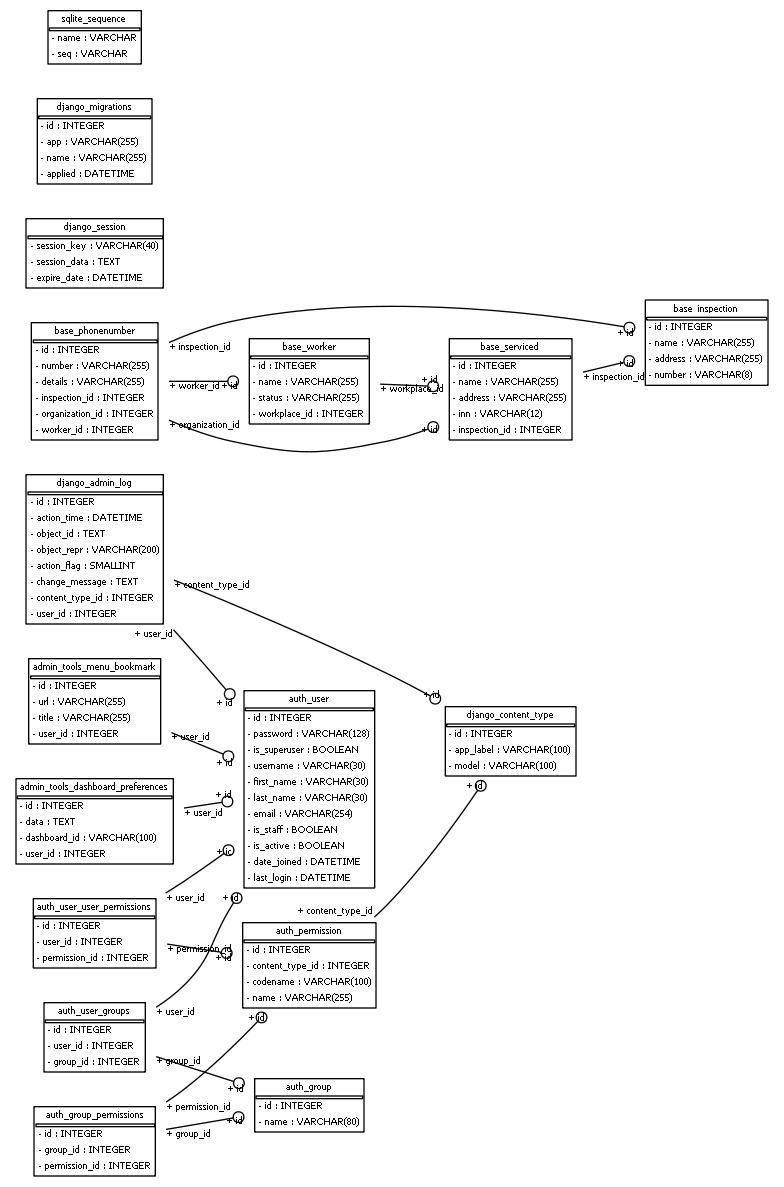
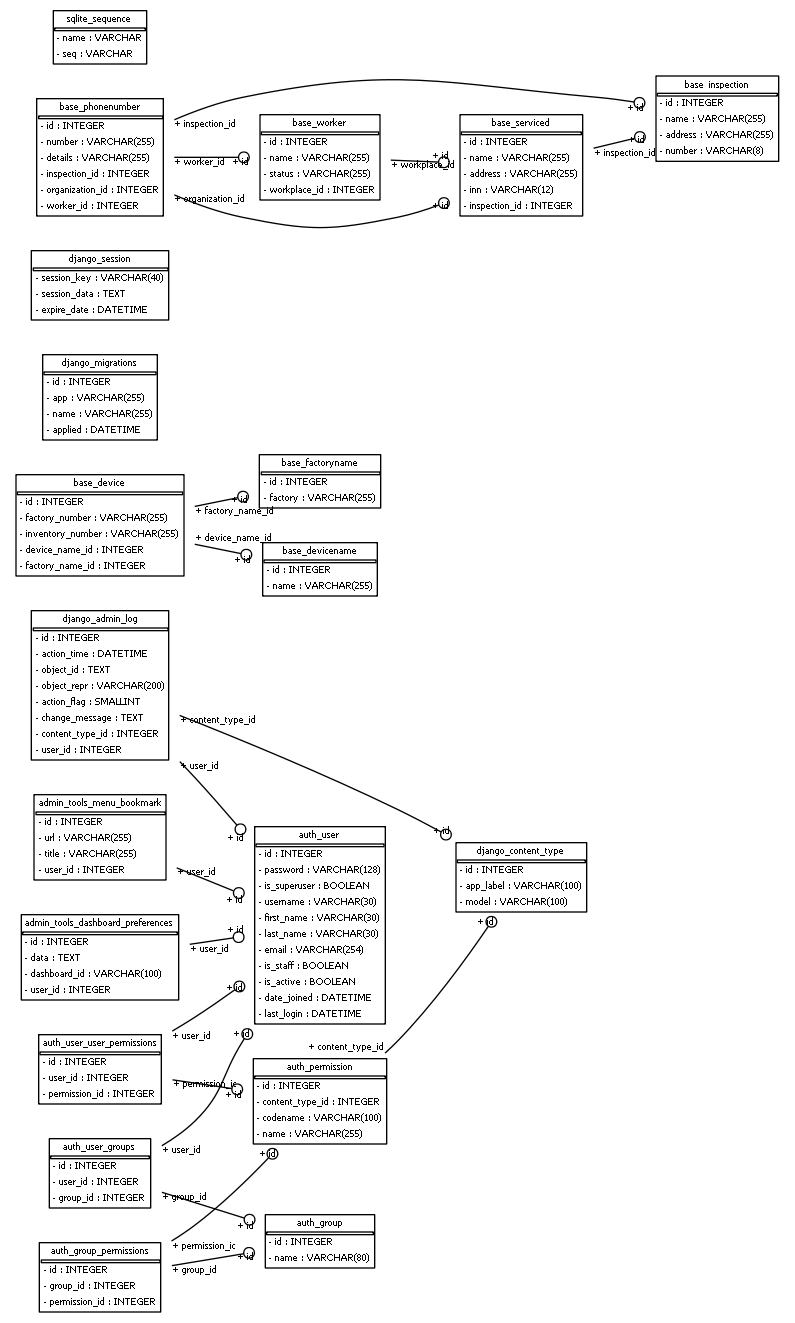
5
5

diff --git a/kkmbase/base/dashboard.py b/kkmbase/base/dashboard.py
@@ -1,0 +1,112 @@
+"""
+This file was generated with the customdashboard management command, it
+contains the two classes for the main dashboard and app index dashboard.
+You can customize these classes as you want.
+
+To activate your index dashboard add the following to your settings.py::
+    ADMIN_TOOLS_INDEX_DASHBOARD = 'kkmbase.dashboard.CustomIndexDashboard'
+
+And to activate the app index dashboard::
+    ADMIN_TOOLS_APP_INDEX_DASHBOARD = 'kkmbase.dashboard.CustomAppIndexDashboard'
+"""
+
+from django.utils.translation import ugettext_lazy as _
+from django.core.urlresolvers import reverse
+
+from admin_tools.dashboard import modules, Dashboard, AppIndexDashboard
+from admin_tools.utils import get_admin_site_name
+
+
+class CustomIndexDashboard(Dashboard):
+    """
+    Custom index dashboard for kkmbase.
+    """
+    def init_with_context(self, context):
+        site_name = get_admin_site_name(context)
+        # append a link list module for "quick links"
+        self.children.append(modules.LinkList(
+            _('Quick links'),
+            layout='inline',
+            draggable=True,
+            deletable=False,
+            collapsible=False,
+            children=[
+                [_('Return to site'), '/'],
+                [_('Change password'),
+                 reverse('%s:password_change' % site_name)],
+                [_('Log out'), reverse('%s:logout' % site_name)],
+                [_('Log out'), reverse('%s:logout' % site_name)],
+            ]
+        ))
+
+        # append an app list module for "Applications"
+        self.children.append(modules.AppList(
+            _('Applications'),
+            exclude=('django.contrib.*',),
+        ))
+
+        # append an app list module for "Administration"
+        self.children.append(modules.AppList(
+            _('Administration'),
+            models=('django.contrib.*',),
+        ))
+
+        # append a recent actions module
+        self.children.append(modules.RecentActions(_('Recent Actions'), 5))
+
+        # append a feed module
+        self.children.append(modules.Feed(
+            _('Latest Django News'),
+            feed_url='http://www.djangoproject.com/rss/weblog/',
+            limit=5
+        ))
+
+        # append another link list module for "support".
+        self.children.append(modules.LinkList(
+            _('Support'),
+            children=[
+                {
+                    'title': _('Django documentation'),
+                    'url': 'http://docs.djangoproject.com/',
+                    'external': True,
+                },
+                {
+                    'title': _('Django "django-users" mailing list'),
+                    'url': 'http://groups.google.com/group/django-users',
+                    'external': True,
+                },
+                {
+                    'title': _('Django irc channel'),
+                    'url': 'irc://irc.freenode.net/django',
+                    'external': True,
+                },
+            ]
+        ))
+
+
+class CustomAppIndexDashboard(AppIndexDashboard):
+    """
+    Custom app index dashboard for kkmbase.
+    """
+
+    # we disable title because its redundant with the model list module
+    title = ''
+
+    def __init__(self, *args, **kwargs):
+        AppIndexDashboard.__init__(self, *args, **kwargs)
+
+        # append a model list module and a recent actions module
+        self.children += [
+            modules.ModelList(self.app_title, self.models),
+            modules.RecentActions(
+                _('Recent Actions'),
+                include_list=self.get_app_content_types(),
+                limit=5
+            )
+        ]
+
+    def init_with_context(self, context):
+        """
+        Use this method if you need to access the request context.
+        """
+        return super(CustomAppIndexDashboard, self).init_with_context(context)

diff --git a/kkmbase/base/models.py b/kkmbase/base/models.py
@@ -57,6 +57,7 @@ class Inspection(Organization):
         
 class DeviceName(models.Model):
     name = models.CharField(u'название: ', max_length=255)
+   #device = models.ForeignKey('Device', verbose_name=u'устройство', blank=True, null=True)
     def __unicode__(self):
         return u'%s' % (self.name)
     class Meta:
@@ -64,23 +65,27 @@ class DeviceName(models.Model):
         verbose_name_plural = u'виды техники'
         
 class FactoryName(models.Model):
-    name = models.CharField(u'производитель: ', max_length=255)
+    factory = models.CharField(u'производитель: ', max_length=255)
+   #device = models.ForeignKey('Device', verbose_name=u'устройство', blank=True, null=True)
     def __unicode__(self):
-        return u'%s, %s' % (self.name)
+        return u'%s' % (self.factory)
     class Meta:
         verbose_name = u'производитель'
         verbose_name_plural = u'производители'
     
 class AbstractDevice(models.Model):
-    device_name = models.ForeignKey('DeviceName', verbose_name=u'название техники', blank=True, null=True)
-    factory_name = models.ForeignKey('FactoryName', verbose_name=u'производитель', blank=True, null=True)
     factory_number = models.CharField(u'заводской номер', blank=True, max_length=255, null=True)
+    inventory_number = models.CharField(u'инвентарный номер', blank=True, max_length=255, null=True)
     class Meta:
         abstract = True
         
 class Device(AbstractDevice):
+    device_name = models.ForeignKey('DeviceName', verbose_name=u'название техники', blank=True, null=True)
+    factory_name = models.ForeignKey('FactoryName', verbose_name=u'производитель', blank=True, null=True)
+    def __unicode__(self):
+        return u'%s' % ('')
     class Meta:
-        #verbose_name = u'устройства'
+        verbose_name = u'устройства'
         verbose_name_plural = u'другие устройства'
     
     

diff --git a/kkmbase/base/admin.py b/kkmbase/base/admin.py
@@ -6,6 +6,8 @@ from .models import Serviced
 from .models import Worker
 from .models import Inspection
 from .models import Device
+from .models import DeviceName
+from .models import FactoryName
 
 
 class WorkerServiced(admin.TabularInline):
@@ -31,11 +33,24 @@ class PhonenumberAdmin(admin.ModelAdmin):
         (u'Выберите абонента.', {'fields': ['worker', 'organization', 'inspection']}),
         (u'Введите номер телефона.', {'fields': ['number', 'details']}),
     ]
-    #['worker', 'number', 'organization', 'details']    
-
+    
+class DeviceNameServiced(admin.TabularInline):
+    model = DeviceName
+    extra = 1
+class FactoryNameServiced(admin.TabularInline):
+    model = FactoryName
+    extra = 1
+    
+class DeviceAdmin(admin.ModelAdmin):
+    fieldsets = [
+        (u'устройство: ', {'fields': ['device_name', 'factory_name', 'factory_number', 'inventory_number']}),
+    ]
+    #inlines = [DeviceNameServiced, FactoryNameServiced]
 
 admin.site.register(Phonenumber, PhonenumberAdmin)
 admin.site.register(Serviced, ServicedAdmin)
 admin.site.register(Worker, WorkerAdmin)
 admin.site.register(Inspection)
 admin.site.register(Device)
+#admin.site.register(DeviceName)
+#admin.site.register(FactoryName)

diff --git a/kkmbase/kkmbase/settings.py b/kkmbase/kkmbase/settings.py
@@ -106,3 +106,5 @@ USE_TZ = True
 
 STATIC_URL = '/static/'
 #STATIC_URL = '\\C:\\Users\\root\Desktop\\django_prj\\kkmbase\\static\\'
+
+ADMIN_TOOLS_INDEX_DASHBOARD = 'base.dashboard.CustomIndexDashboard'
